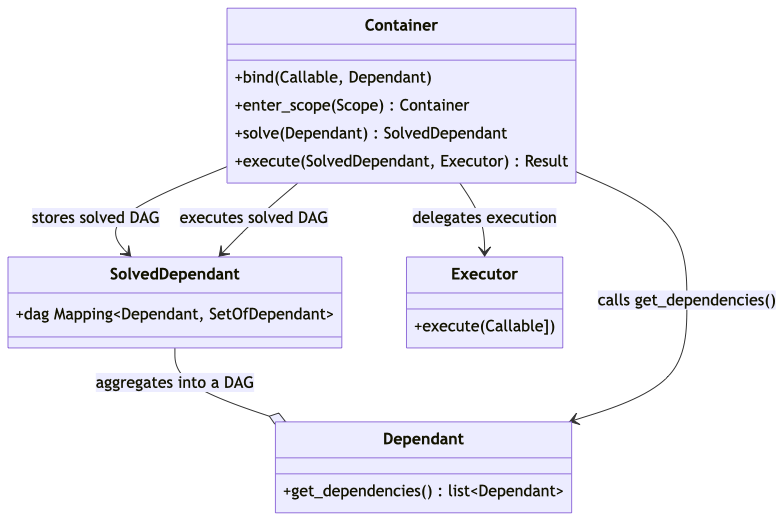
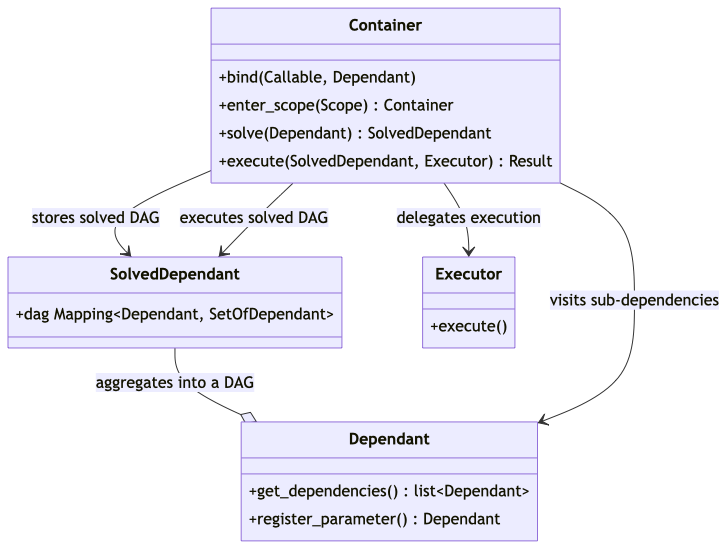
doc: add reference to pytest fixtures and clean up architecture diagram

Changed region(s): [[0.0, 0.0, 0.9986, 1.0], [0.2118, 0.3378, 0.2421, 0.3685]]

diff --git a/docs/README.md b/docs/README.md
@@ -4,14 +4,12 @@
 
 Key features:
 
-- **Intuitive**: simple things are easy, complex things are possible.
+- **Intuitive**: simple API, inspired by [FastAPI].
 - **Succinct**: declare what you want, and `di` figures out how to assmble it using type annotations.
 - **Correct**: tested with MyPy: `value: int = Depends(returns_str)` gives an error.
-- **Flexible**: with no fixed scopes, `di` can work within any framework, web or otherwise.
-- **Lifespans**: `di` manages lifespans for dependencies by binding them to scopes.
-- **Caching**: `di` caches values from dependencies to avoid duplicate computation.
-- **Scalability**: `di` executes dependencies in parallel and only needs to solve them once.
-- **Performant**: `di` moves sync dependencies into a threadpool to avoid blocking the event loop.
+- **Scopes**: inspired by [pytest scopes], but defined by users (no fixed "request" or "session" scopes).
+- **Flexible**: decoupled internal APIs give you the flexibility to customize wiring and execution.
+- **Performant**: `di` can execute dependencies in parallel, move sync dependencies to threads and cache results.
 
 ## Installation
 
@@ -45,13 +43,9 @@ Dependency injection is a software architecture technique that helps us achieve 
 It is a common misconception that traditional software design principles do not apply to Python.
 As a matter of fact, you are probably using a lot of these techniques already!
 
-For example, the `transport` argument to httpx's Client ([docs](https://www.python-httpx.org/advanced/#custom-transports)) is an excellent example of dependency injection.
+For example, the `transport` argument to httpx's Client ([docs](https://www.python-httpx.org/advanced/#custom-transports)) is an excellent example of dependency injection. Pytest, arguably the most popular Python test framework, uses dependency injection in the form of [pytest fixtures].
 
-Most web frameworks employ inversion of control: when you define a view / controller, the web framework calls you! The same thing applies to CLIs (like [click]) or TUIs (like [Textual]).
-
-This is especially true for many newer webframeworks that not only use inversion of control but also dependency injection. Two great examples of this are [FastAPI] and [BlackSheep].
-
-This project was born out of a desire to generalize and improve upon FastAPI's dependency injection system so that it can be used outside of FastAPI and even in other libraries.
+Most web frameworks employ inversion of control: when you define a view / controller, the web framework calls you! The same thing applies to CLIs (like [click]) or TUIs (like [Textual]). This is especially true for many newer webframeworks that not only use inversion of control but also dependency injection. Two great examples of this are [FastAPI] and [BlackSheep].
 
 For a more comprehensive overview of Python projectes related to dependency injection, see [Awesome Dependency Injection in Python].
 
@@ -116,3 +110,5 @@ You can also "bind" providers, which is covered in the [binds] section of the do
 [BlackSheep]: https://www.neoteroi.dev/blacksheep/dependency-injection/
 [Awesome Dependency Injection in Python]: https://github.com/sfermigier/awesome-dependency-injection-in-python
 [python-dependency-injector]: https://github.com/ets-labs/python-dependency-injector
+[pytest scopes]: https://docs.pytest.org/en/6.2.x/fixture.html#scope-sharing-fixtures-across-classes-modules-packages-or-session
+[pytest fixtures]: https://docs.pytest.org/en/6.2.x/fixture.html

diff --git a/docs/architecture.md b/docs/architecture.md
@@ -25,18 +25,19 @@ The mermaid diagram used to create this is below.
 ``` mermaid
 classDiagram
     SolvedDependant "1..n" --o Dependant: aggregates into a DAG
-    Container --> Dependant: calls get_dependencies()
+    Container --> Dependant: visits sub-dependencies
     Container --> Executor: delegates execution
     Container --> SolvedDependant: stores solved DAG
     Container --> SolvedDependant: executes solved DAG
     class Dependant{
       +get_dependencies() list~Dependant~
+      +register_parameter() Dependant
     }
     class SolvedDependant{
       +dag Mapping~Dependant, SetOfDependant~
     }
     class Executor{
-      +execute(Callable])
+      +execute()
     }
     class Container{
       +bind(Callable, Dependant)
